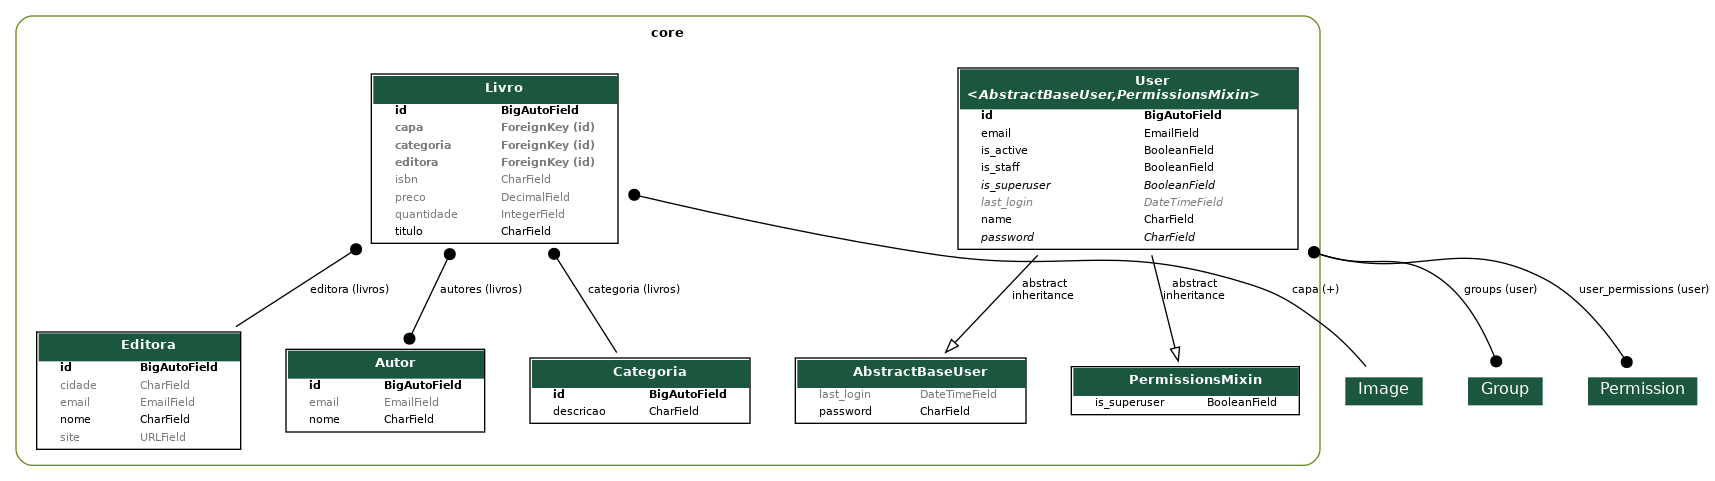
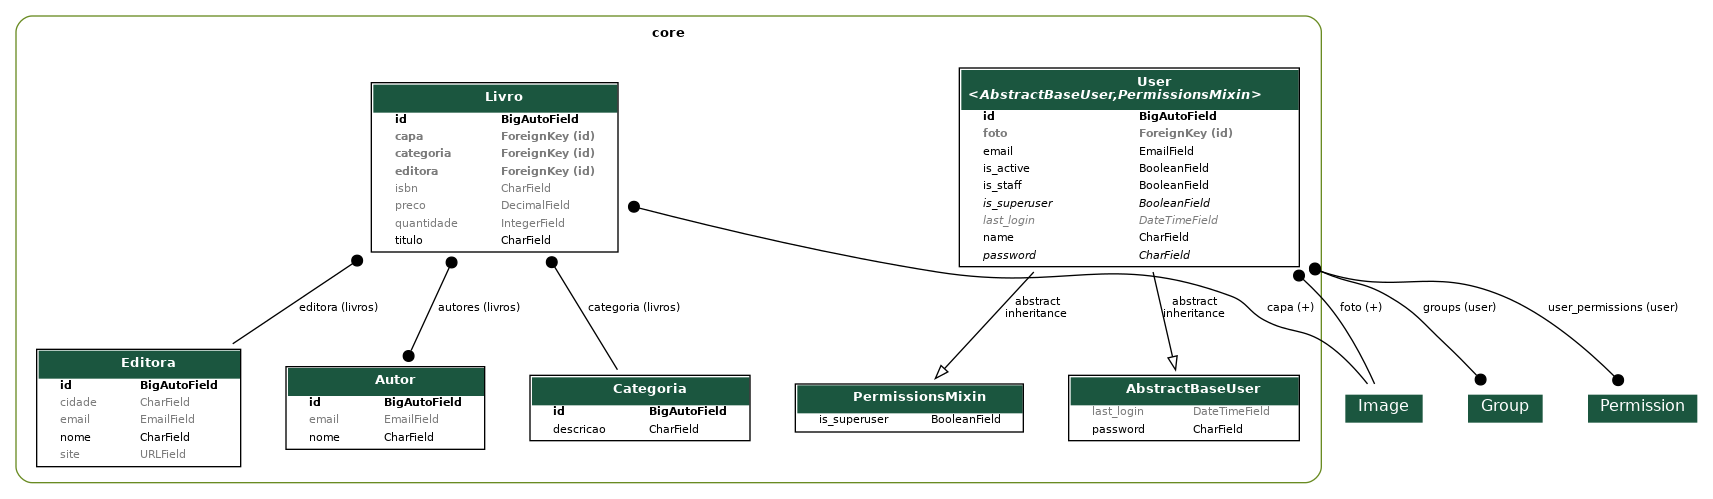
feat: Adicionar campo de foto para o model User

diff --git a/core/migrations/0017_user_foto.py b/core/migrations/0017_user_foto.py
@@ -1,0 +1,27 @@
+# Generated by Django 5.0.2 on 2024-08-27 11:45
+
+import django.db.models.deletion
+from django.db import migrations, models
+
+
+class Migration(migrations.Migration):
+
+    dependencies = [
+        ("core", "0016_rename_autor_livro_autores"),
+        ("uploader", "0001_initial"),
+    ]
+
+    operations = [
+        migrations.AddField(
+            model_name="user",
+            name="foto",
+            field=models.ForeignKey(
+                blank=True,
+                default=None,
+                null=True,
+                on_delete=django.db.models.deletion.SET_NULL,
+                related_name="+",
+                to="uploader.image",
+            ),
+        ),
+    ]

diff --git a/core/serializers/user.py b/core/serializers/user.py
@@ -1,9 +1,23 @@
-from rest_framework.serializers import ModelSerializer
+from rest_framework.serializers import ModelSerializer, SlugRelatedField
 
 from core.models import User
+from uploader.models import Image
+from uploader.serializers import ImageSerializer
 
 
 class UserSerializer(ModelSerializer):
+    foto_attachment_key = SlugRelatedField(
+        source="foto",
+        queryset=Image.objects.all(),
+        slug_field="attachment_key",
+        required=False,
+        write_only=True,
+    )
+    foto = ImageSerializer(
+        required=False,
+        read_only=True
+    )
+
     class Meta:
         model = User
         fields = "__all__"

diff --git a/core/models/user.py b/core/models/user.py
@@ -7,7 +7,7 @@ from django.contrib.auth.models import (
     PermissionsMixin,
 )
 from django.db import models
-
+from uploader.models import Image
 
 class UserManager(BaseUserManager):
     """Manager for users."""
@@ -40,6 +40,14 @@ class User(AbstractBaseUser, PermissionsMixin):
     name = models.CharField(max_length=255)
     is_active = models.BooleanField(default=True)
     is_staff = models.BooleanField(default=False)
+    foto = models.ForeignKey(
+        Image,
+        related_name="+",
+        on_delete=models.SET_NULL,
+        null=True,
+        blank=True,
+        default=None,
+    )
 
     objects = UserManager()
 

diff --git a/core/admin.py b/core/admin.py
@@ -17,7 +17,7 @@ class UserAdmin(BaseUserAdmin):
     list_display = ["email", "name"]
     fieldsets = (
         (None, {"fields": ("email", "password")}),
-        (_("Personal Info"), {"fields": ("name",)}),
+        (_("Personal Info"), {"fields": ("name", "foto")}),
         (
             _("Permissions"),
             {
